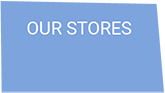
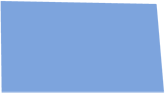
last

Changed region(s): [[0.1515, 0.2151, 0.8182, 0.3871]]

diff --git a/nav_2.css b/nav_2.css
@@ -100,11 +100,9 @@ div#top-row {
 /*-------TOP ROW INFO -------*/
 
 #top-row-info {
-    position: relative;
-    top: 45%;
-    transform: translateY(-60%);
+    padding-top: 14px;
     
-    left: 556px;
+    padding-left: 556px;
     
     color: #6d6e71;
 }
@@ -247,7 +245,18 @@ ul#main-nav {
     position: absolute;
     background-position: center center;
     background-repeat: no-repeat;
-    text-indent: -9999px;
+    
+    font-family: 'Roboto', sans-serif;
+    font-weight: normal;
+    font-size: 18px;
+    
+    line-height: 45px;
+    
+    color: #ffffff;
+    
+    text-decoration: none;
+    text-transform: capitalize;
+    text-align: center;
 }
 
 #main-nav a#spacer-right {
@@ -264,7 +273,7 @@ ul#main-nav {
     background: url(img/1.png) no-repeat center;
     width: 147px;
     height: 90px;
-    
+        
     left: 315px;
     
     top: -1px;
@@ -275,6 +284,8 @@ ul#main-nav {
     background: url(img/2.png) no-repeat center;
     width: 165px;
     height: 95px;
+    
+    text-indent: -9999px;
     
     left: 452px;
     
@@ -331,7 +342,21 @@ ul#main-nav {
     top: -10px;
 }
 
-#main-nav a#main-2:hover, 
+#main-nav a#main-2:hover {
+    top: -18px;
+    
+    font-family: 'Roboto', sans-serif;
+    font-weight: bold;
+    font-size: 14px;
+    
+    color: #ffffff;
+    line-height: 103px;
+    
+    text-indent: 0px;
+    text-align: center;
+    text-decoration: none;   
+}
+
 #main-nav a#main-3:hover,
 #main-nav a#main-6:hover {
     top: -14px;
@@ -475,7 +500,7 @@ a#invented-here:hover {
 a#invented-here span {
     position: absolute;
     background: url(img/pin_1.png) no-repeat center;
-    width: 73px;
+    width: 52px;
     height: 73px;
     
     margin-left: -5px;
@@ -485,7 +510,7 @@ a#invented-here span {
 a#invented-here:hover span{
     position: absolute;
     background: url(img/pin_2.png) no-repeat center;
-    width: 73px;
+    width: 52px;
     height: 73px;
     
     margin-left: -5px;

diff --git a/nav_2.html b/nav_2.html
@@ -47,12 +47,12 @@
             <!--MAIN ROW NAV-->
             <ul id="main-nav">
                 <li><a href="" id="spacer-right"></a></li>
-                <li><a href="" id="main-1">About Us</a></li>
-                <li><a href="" id="main-2">PLAY</a></li>
-                <li><a href="" id="main-3">Our Stores</a></li>
-                <li><a href="" id="main-4">My Favorites</a></li>
-                <li><a href="" id="main-5">Gift Registry</a></li>
-                <li><a href="" id="main-6">My Account</a></li>
+                <li><a href="" id="main-1">ABOUT US</a></li>
+                <li><a href="" id="main-2">(Toy Blog)</a></li>
+                <li><a href="" id="main-3">OUR STORES</a></li>
+                <li><a href="" id="main-4">MY FAVORITES</a></li>
+                <li><a href="" id="main-5">GIFT REGISTRY</a></li>
+                <li><a href="" id="main-6">MY ACCOUNT</a></li>
                 <li><a href="" id="spacer-left"></a></li>
             </ul>
             <!--MAIN ROW NAV END-->
